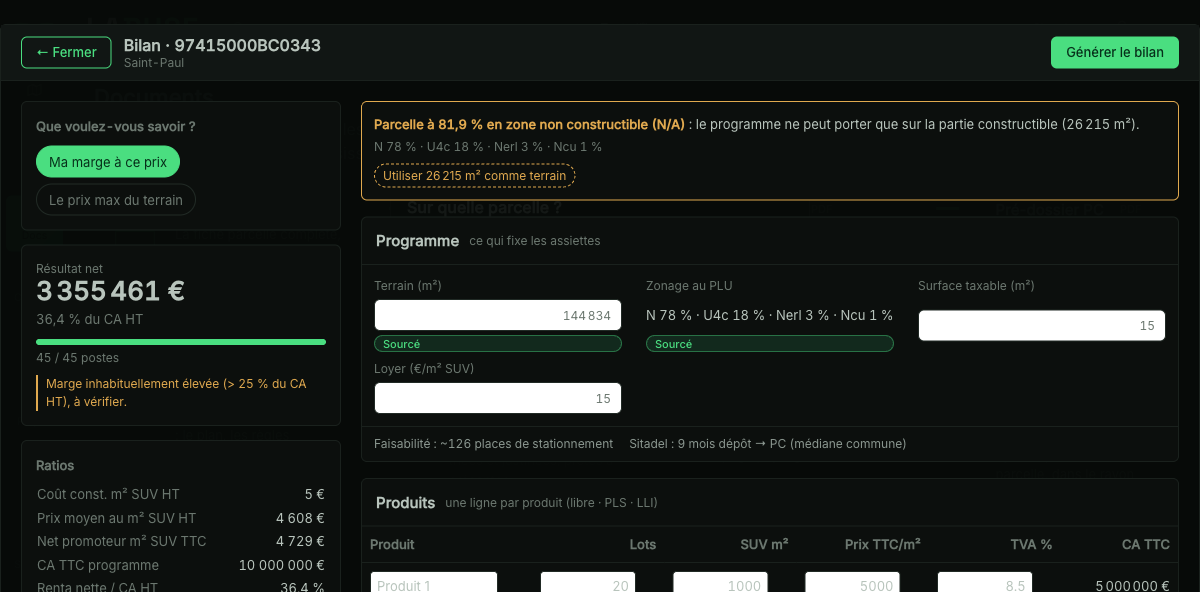
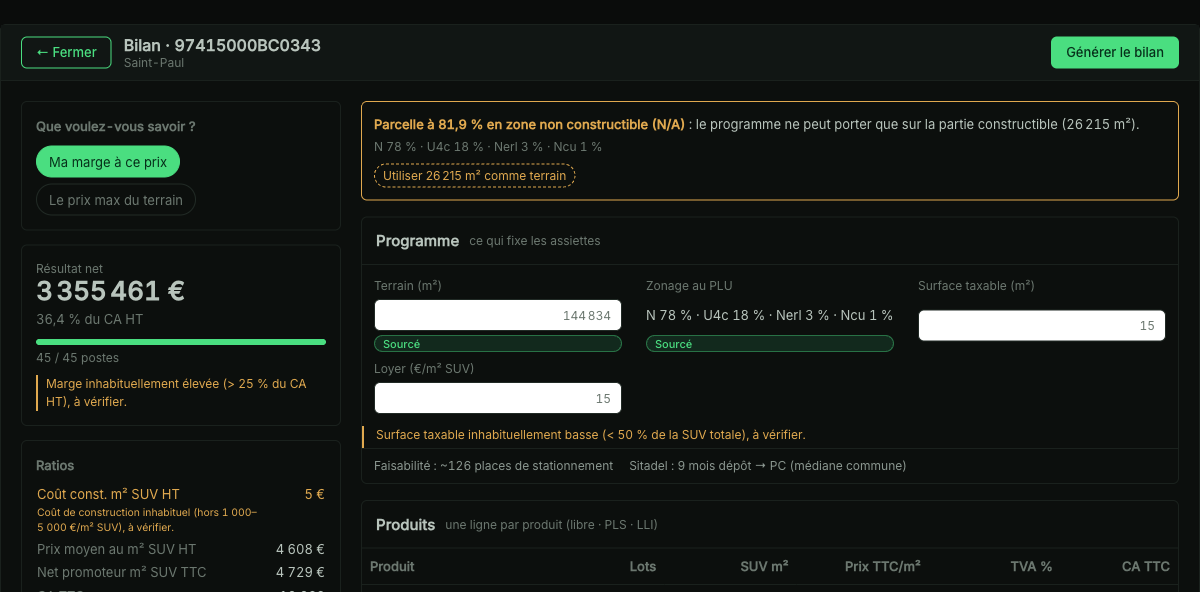
BILAN-1 — 2ᵉ tour de retours (capture BC0343)
1. Fenêtre du bilan OPAQUE : l'overlay passe de rgba(…,.92) à bg-bg (la base de
   l'app) + panneau bg-surface-1 → on ne voit plus la page Docs en dessous.
2. Le ratio « Coût const. m² SUV HT » porte l'alerte ambrée LUI-MÊME : la borne
   1 000–5 000 €/m² est évaluée sur le RATIO servi (construction + imprévus ÷ SUV)
   et affichée sur la ligne du ratio (cible `cout_const`), plus seulement la marge.
3. Nouvelle alerte de vraisemblance : surface taxable < 50 % de la SUV totale
   (cible `stax`, ambrée sous le champ).

Tests mis à jour (cout_const + stax). pytest bilan 63 · tsc0 · vitest237.
Capture complète BC0343 régénérée. Boot 8820 (8810 idle, sans contention),
serveur arrêté ; 8810 (RECETTE-PROD-1) jamais touché.

diff --git a/frontend/src/components/fiche/BilanEcran.tsx b/frontend/src/components/fiche/BilanEcran.tsx
@@ -224,9 +224,18 @@ export function BilanEcran({ idu, onClose, onGenerated }:
               <h3 className="mb-2 text-[13px] font-semibold text-txt-mut">Ratios</h3>
               <table className="w-full text-[13px]">
                 <tbody>
-                  {res.ratios.map(([k, v]) => (
-                    <tr key={k}><td className="py-0.5 text-txt-mut">{k}</td><td className="py-0.5 text-right tabular-nums text-txt">{v}</td></tr>
-                  ))}
+                  {res.ratios.map(([k, v]) => {
+                    const alerte = k.startsWith('Coût const') ? vrais['cout_const'] : undefined
+                    return (
+                      <tr key={k}>
+                        <td className="py-0.5 align-top">
+                          <span className={alerte ? 'text-amber' : 'text-txt-mut'}>{k}</span>
+                          {alerte && <small className="block text-amber">{alerte}</small>}
+                        </td>
+                        <td className={`py-0.5 text-right align-top tabular-nums ${alerte ? 'text-amber' : 'text-txt'}`}>{v}</td>
+                      </tr>
+                    )
+                  })}
                 </tbody>
               </table>
             </section>
@@ -266,6 +275,9 @@ export function BilanEcran({ idu, onClose, onGenerated }:
                 <ChampTexte label="Dernier prix DVF (info)" value={fmtEur(modele.sourcee.prix_achat_dvf.valeur)} source />
               )}
             </div>
+            {vrais['stax'] && (
+              <div className="border-l-2 border-amber px-3 pb-1 text-[12px] text-amber">{vrais['stax']}</div>
+            )}
             {(modele.reperes_publics['faisabilite'] || modele.reperes_publics['sitadel']) && (
               <div className="flex flex-wrap gap-x-4 gap-y-1 border-t border-line px-3 py-2 text-[12px] text-txt-dim">
                 {modele.reperes_publics['faisabilite']?.parkings != null && (
@@ -358,9 +370,11 @@ export function BilanEcran({ idu, onClose, onGenerated }:
 
 // ── sous-composants ──────────────────────────────────────────────────────
 function Overlay({ children, onClose }: { children: React.ReactNode; onClose: () => void }) {
+  // Fond OPAQUE (bg-bg, la base de l'app) : la fenêtre prend tout l'écran, on ne voit
+  // jamais la page en dessous.
   return (
-    <div className="fixed inset-0 z-50 overflow-auto bg-[rgba(6,10,8,0.92)]" onClick={onClose}>
-      <div className="mx-auto my-6 max-w-[1500px] rounded-lg border border-line bg-surface" onClick={(e) => e.stopPropagation()}>
+    <div className="fixed inset-0 z-50 overflow-auto bg-bg" onClick={onClose}>
+      <div className="mx-auto my-6 max-w-[1500px] rounded-lg border border-line bg-surface-1" onClick={(e) => e.stopPropagation()}>
         {children}
       </div>
     </div>

diff --git a/src/labuse/bilan/moteur.py b/src/labuse/bilan/moteur.py
@@ -407,7 +407,7 @@ class Moteur:
                 prix_max_m2 = prix_max / e.programme.terrain
 
         ratios = self._ratios(lignes, blocs_tot, pt, ctx, complet, res_net)
-        vrais = self._vraisemblance(lignes, marge, complet)
+        vrais = self._vraisemblance(lignes, pt, e.programme, marge, complet)
 
         return ResultatBilan(
             lignes=lignes,
@@ -437,18 +437,28 @@ class Moteur:
             vraisemblance=vrais,
         )
 
-    def _vraisemblance(self, lignes, marge, complet) -> list[dict[str, str]]:
+    def _vraisemblance(self, lignes, pt, programme, marge, complet) -> list[dict[str, str]]:
         """Alertes de vraisemblance NON bloquantes (le bilan se calcule quand même) :
         une valeur hors des bornes usuelles est signalée « à vérifier », jamais corrigée."""
         out: list[dict[str, str]] = []
+        suv = pt["suv"]
+        # Coût de construction au m² SUV (= le RATIO servi : construction + imprévus ÷ SUV)
         constr = next((ln for ln in lignes if ln.id == "constr"), None)
-        if constr and constr.etat != SANS_OBJET and constr.taux_ou_montant is not None:
-            v = constr.taux_ou_montant  # €/m² de SUV (poste en mode unit)
-            if v < 1000 or v > 5000:
+        aleaC = next((ln for ln in lignes if ln.id == "aleaC"), None)
+        if constr and constr.ht is not None and suv:
+            cout = (constr.ht + (aleaC.ht or 0.0 if aleaC else 0.0)) / suv
+            if cout < 1000 or cout > 5000:
                 out.append({
-                    "cible": "constr",
+                    "cible": "cout_const",
                     "message": "Coût de construction inhabituel (hors 1 000–5 000 €/m² SUV), à vérifier.",
                 })
+        # Surface taxable très basse par rapport à la SUV totale
+        stax = programme.surface_taxable
+        if stax is not None and suv and stax < 0.5 * suv:
+            out.append({
+                "cible": "stax",
+                "message": "Surface taxable inhabituellement basse (< 50 % de la SUV totale), à vérifier.",
+            })
         if complet and marge is not None and marge > 0.25:
             out.append({
                 "cible": "marge",

diff --git a/tests/test_bilan_moteur.py b/tests/test_bilan_moteur.py
@@ -160,14 +160,26 @@ def test_vraisemblance_non_bloquante():
     base = EntreesBilan(
         programme=Programme(terrain=1746, surface_taxable=2560),
         produits=[Produit("Libre", 46, 2560, 4800, 0.085)],
-        postes={"constr": SaisiePoste(2300, SAISI)},  # dans les bornes
+        postes={"constr": SaisiePoste(2300, SAISI)},  # coût/m² dans les bornes
     )
     assert Moteur().calculer(base).vraisemblance == []
-    base.postes["constr"] = SaisiePoste(6000, SAISI)  # coût hors 1 000–5 000
-    v = Moteur().calculer(base).vraisemblance
-    assert any(a["cible"] == "constr" for a in v)
-    base.postes["constr"] = SaisiePoste(300, SAISI)  # trop bas
-    assert any(a["cible"] == "constr" for a in Moteur().calculer(base).vraisemblance)
+    # coût de construction au m² SUV hors 1 000–5 000 → alerte sur le RATIO
+    base.postes["constr"] = SaisiePoste(6000, SAISI)
+    assert any(a["cible"] == "cout_const" for a in Moteur().calculer(base).vraisemblance)
+    base.postes["constr"] = SaisiePoste(300, SAISI)
+    assert any(a["cible"] == "cout_const" for a in Moteur().calculer(base).vraisemblance)
+
+
+def test_vraisemblance_surface_taxable_basse():
+    """Surface taxable < 50 % de la SUV totale → alerte non bloquante."""
+    e = EntreesBilan(
+        programme=Programme(terrain=1746, surface_taxable=1000),  # < 50 % de 2560
+        produits=[Produit("Libre", 46, 2560, 4800, 0.085)],
+        postes={"constr": SaisiePoste(2300, SAISI)},
+    )
+    assert any(a["cible"] == "stax" for a in Moteur().calculer(e).vraisemblance)
+    e.programme.surface_taxable = 2000  # ≥ 50 %
+    assert not any(a["cible"] == "stax" for a in Moteur().calculer(e).vraisemblance)
 
 
 def test_apport_est_en_base_ttc():

diff --git a/docs/audit-2026-10/bilan-1/SUIVI.md b/docs/audit-2026-10/bilan-1/SUIVI.md
@@ -40,6 +40,12 @@ Venv : `~/Desktop/labuse/.venv/bin/python` ; imports LABUSE depuis ce worktree a
 4. Alertes de vraisemblance non bloquantes (moteur `vraisemblance`) : coût const. hors 1 000–5 000 €/m², marge > 25 % → ligne ambrée.
 5. Nouvelles captures BC0343 (vide + complet). Boot 8820 (8810 idle, pas de contention), serveur arrêté après, 8810 jamais touché. pytest bilan 62 · tsc0 · vitest237.
 
+## 2ᵉ tour de retours (capture BC0343) — FAITS
+1. Fenêtre du bilan OPAQUE (`bg-bg` au lieu de rgba .92) — on ne voit plus Docs dessous.
+2. Ratio « Coût const. m² SUV HT » porte l'alerte ambrée lui-même (borne 1 000–5 000 €/m² évaluée sur le ratio servi = constr+imprévus÷SUV, pas sur le poste).
+3. Alerte vraisemblance si surface taxable < 50 % de la SUV totale.
+pytest bilan 63 · tsc0 · vitest237. Boot 8820 (8810 idle), serveur arrêté, 8810 (200) jamais touché. Capture complète BC0343 régénérée.
+
 ## Étape 0 — faits
 - `pwd` = /Users/openclaw/Desktop/labuse-bilan1 ; branche `feat/bilan-1` ; arbre propre (seul le dossier bilan-1 non suivi).
 - Base `01965f44` = `origin/main` : contient DOCS-1 + DOCS-FIX-1. **TUILES-TX-1 (`2f6cf7ec`) n'est PAS mergé dans origin/main** (signalé à Vic) — sans effet sur ce mandat (fix tuiles MVT, hors périmètre bilan/docs).

diff --git a/docs/audit-2026-10/bilan-1/BILAN-1.md b/docs/audit-2026-10/bilan-1/BILAN-1.md
@@ -157,5 +157,15 @@ sur le nouveau bilan. Démontage = un chantier dédié.
    le repère Faisabilité est étiqueté « (estimation) ».
 4. **Alertes de vraisemblance non bloquantes** (moteur) : coût de construction hors
    1 000–5 000 €/m² SUV, marge > 25 % du CA HT → ligne ambrée « valeur inhabituelle,
-   à vérifier » (sur le poste et au résultat) ; le bilan se calcule quand même.
+   à vérifier » ; le bilan se calcule quand même.
 5. Nouvelle capture `ecran-bilan-vide.png` + `ecran-bilan-complet.png` (BC0343).
+
+### 9 bis. 2ᵉ tour de retours (capture BC0343)
+1. **Fenêtre opaque** : l'overlay du bilan passe de `rgba(…,.92)` à **`bg-bg`** (base
+   de l'app) — on ne voit plus la page Docs en dessous.
+2. **Le ratio « Coût const. m² SUV HT » porte l'alerte lui-même** : la borne
+   1 000–5 000 €/m² est désormais évaluée sur le **ratio servi** (construction +
+   imprévus ÷ SUV), et l'alerte ambrée s'affiche **sur la ligne du ratio** (plus
+   seulement la marge).
+3. **Surface taxable < 50 % de la SUV totale** → nouvelle alerte de vraisemblance
+   ambrée sous le champ Surface taxable.
